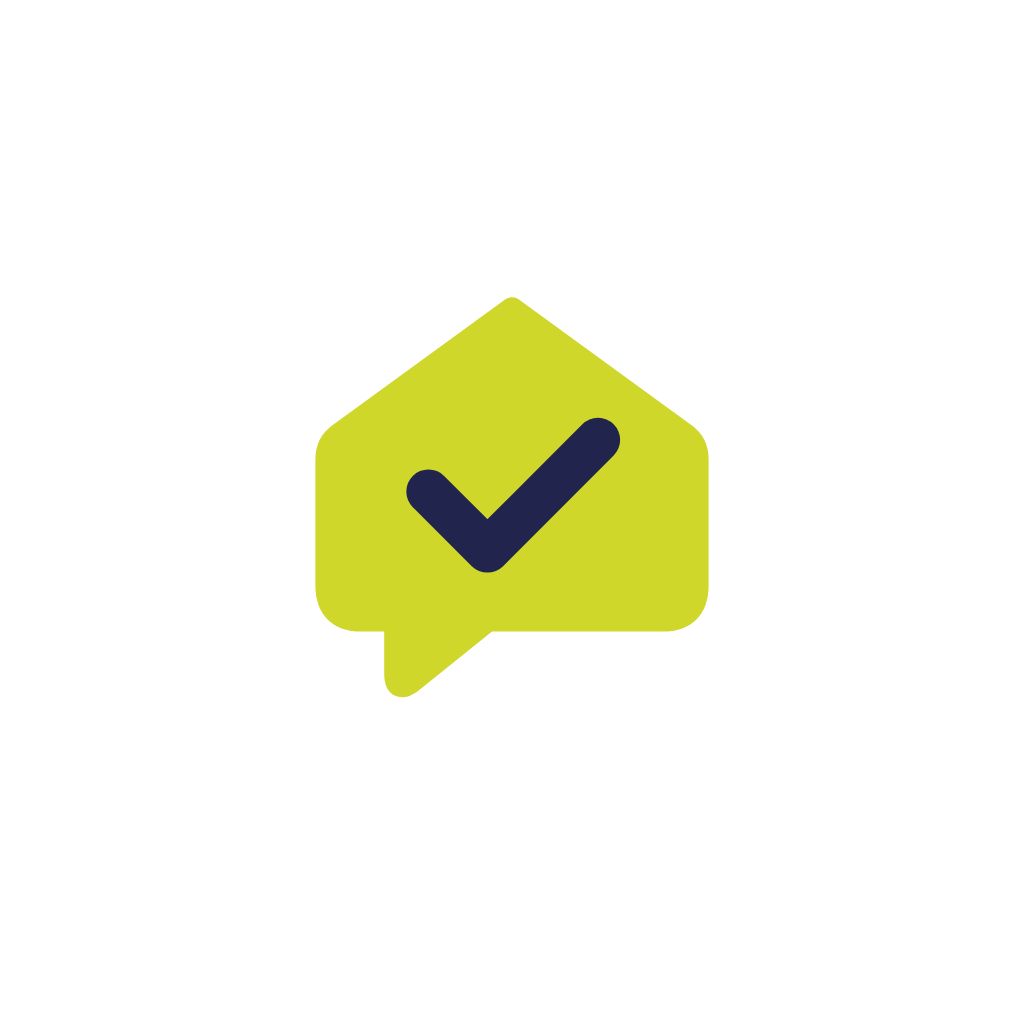
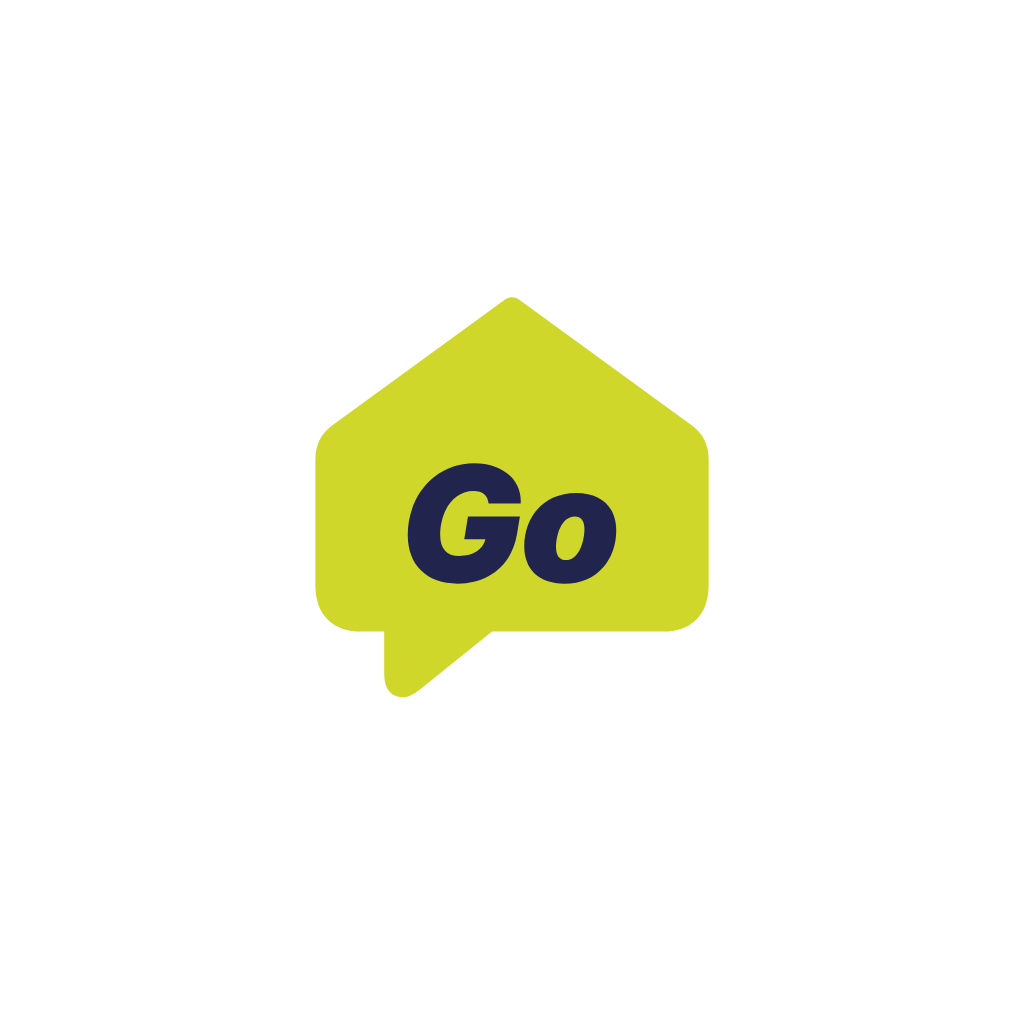
Logotipo con «Go» en cursiva y portada nueva para el cliente
- Logo: la casita verde lima con «Go» en azul marino (Inter Black cursiva convertida a trazo).
- Nuevo ícono de la app, ícono adaptable de Android, pantalla de arranque y favicon.
- Portada: fondo blanco, logotipo y AHA HOME, «Hacemos todo por ti», los 4 pasos del servicio,
  «Crear mi cuenta», «Ya tengo cuenta · Entrar» y el acceso de técnicos abajo.
  La configuración del servidor se abre manteniendo presionado el logotipo.

Claude-Session: https://claude.ai/code/session_014SMz9zz3oS1yaniiLYwkLp

Changed region(s): [[0.375, 0.4062, 0.625, 0.5938]]

diff --git a/mobile/src/screens/Inicio.tsx b/mobile/src/screens/Inicio.tsx
@@ -1,35 +1,58 @@
+import { Ionicons } from "@expo/vector-icons";
 import React from "react";
-import { Pressable, Text, View } from "react-native";
+import { Pressable, ScrollView, Text, View } from "react-native";
 import { useSafeAreaInsets } from "react-native-safe-area-context";
 
-import { getServer } from "../api";
 import { useNav } from "../nav";
 import { Boton, C, Logo } from "../ui";
 
+const PASOS: { icono: React.ComponentProps<typeof Ionicons>["name"]; titulo: string; detalle: string }[] = [
+  { icono: "storefront-outline", titulo: "Retiramos tu compra", detalle: "en Tiendas Damasco" },
+  { icono: "car-outline", titulo: "La llevamos a tu casa", detalle: "con seguimiento en vivo" },
+  { icono: "construct-outline", titulo: "Desembalamos e instalamos", detalle: "técnicos verificados" },
+  { icono: "trash-outline", titulo: "Nos llevamos los desechos", detalle: "cajas, anime y plásticos" },
+];
+
+/** Portada para el cliente: logotipo, qué hacemos en 4 pasos y dos botones para empezar. */
 export default function Inicio() {
   const nav = useNav();
   const insets = useSafeAreaInsets();
   return (
-    <View style={{ flex: 1, backgroundColor: C.marino, paddingTop: insets.top + 60, paddingBottom: insets.bottom + 24, paddingHorizontal: 24 }}>
-      <View style={{ alignItems: "center", gap: 14 }}>
-        <Logo size={96} conFondo={false} />
-        <Text style={{ color: C.blanco, fontSize: 38, fontWeight: "900", letterSpacing: 1 }}>AHA HOME</Text>
-        <Text style={{ color: C.lima, fontSize: 17, fontWeight: "700" }}>Hacemos todo por ti</Text>
-        <Text style={{ color: "#DCDEF0", fontSize: 15, textAlign: "center", lineHeight: 22, marginTop: 6 }}>
-          Retiramos tu compra en Damasco, la llevamos a tu casa, la instalamos y nos llevamos las cajas y el anime.
+    <View style={{ flex: 1, backgroundColor: C.blanco }}>
+      <ScrollView contentContainerStyle={{ flexGrow: 1, paddingTop: insets.top + 40, paddingBottom: insets.bottom + 16, paddingHorizontal: 22, gap: 10 }}>
+        {/* tocar y mantener el logotipo abre la configuración del servidor (solo para pruebas) */}
+        <Pressable accessibilityRole="image" accessibilityLabel="AHA HOME" onLongPress={() => nav.push("servidor")} delayLongPress={1500}
+          style={{ alignItems: "center", gap: 6 }}>
+          <Logo size={96} conFondo={false} />
+          <Text style={{ color: C.marino, fontSize: 36, fontWeight: "900", letterSpacing: 1 }}>AHA HOME</Text>
+        </Pressable>
+        <Text style={{ color: C.marino, fontSize: 24, fontWeight: "900", textAlign: "center", marginTop: 8 }}>Hacemos todo por ti</Text>
+        <Text style={{ color: C.gris, fontSize: 15, textAlign: "center", lineHeight: 21 }}>
+          Desde la caja de Damasco hasta tu casa, con tu compra instalada y sin cajas que botar.
         </Text>
-      </View>
-      <View style={{ flex: 1 }} />
-      <View style={{ gap: 12 }}>
-        <Boton titulo="Entrar" tipo="lima" onPress={() => nav.push("login")} />
-        <Boton titulo="Soy técnico o ayudante" tipo="secundario" icono="finger-print" onPress={() => nav.push("loginTecnico")} />
-        <Pressable accessibilityRole="button" onPress={() => nav.push("registroCliente")} style={{ minHeight: 44, alignItems: "center", justifyContent: "center" }}>
-          <Text style={{ color: C.blanco, fontSize: 15 }}>¿Nuevo en AHA HOME? <Text style={{ fontWeight: "800", color: C.lima }}>Regístrate</Text></Text>
-        </Pressable>
-        <Pressable accessibilityRole="button" onPress={() => nav.push("servidor")} style={{ minHeight: 44, alignItems: "center", justifyContent: "center" }}>
-          <Text style={{ color: "#9EA3CF", fontSize: 12 }}>Servidor: {getServer()}</Text>
-        </Pressable>
-      </View>
+        <View style={{ gap: 8, marginTop: 6 }}>
+          {PASOS.map((p) => (
+            <View key={p.titulo} style={{ flexDirection: "row", alignItems: "center", gap: 12, backgroundColor: C.fondo, borderWidth: 1, borderColor: C.linea,
+              borderRadius: 14, paddingVertical: 9, paddingHorizontal: 12 }}>
+              <View style={{ width: 42, height: 42, borderRadius: 12, backgroundColor: C.lima, alignItems: "center", justifyContent: "center" }}>
+                <Ionicons name={p.icono} size={22} color={C.marino} />
+              </View>
+              <View style={{ flex: 1 }}>
+                <Text style={{ color: C.texto, fontWeight: "800", fontSize: 15 }}>{p.titulo}</Text>
+                <Text style={{ color: C.gris, fontSize: 13 }}>{p.detalle}</Text>
+              </View>
+            </View>
+          ))}
+        </View>
+        <View style={{ flex: 1, minHeight: 16 }} />
+        <View style={{ gap: 10 }}>
+          <Boton titulo="CREAR MI CUENTA" tipo="naranja" onPress={() => nav.push("registroCliente")} />
+          <Boton titulo="YA TENGO CUENTA · ENTRAR" onPress={() => nav.push("login")} />
+          <Pressable accessibilityRole="button" onPress={() => nav.push("loginTecnico")} style={{ minHeight: 44, alignItems: "center", justifyContent: "center" }}>
+            <Text style={{ color: C.gris, fontSize: 14 }}>¿Eres técnico o ayudante? <Text style={{ fontWeight: "800", color: C.marino, textDecorationLine: "underline" }}>Entra aquí</Text></Text>
+          </Pressable>
+        </View>
+      </ScrollView>
     </View>
   );
 }

diff --git a/mobile/src/ui.tsx b/mobile/src/ui.tsx
@@ -20,7 +20,10 @@ export const C = {
 
 export type Icono = React.ComponentProps<typeof Ionicons>["name"];
 
-/** La casita de Anunciate con los colores de AHA VOY. */
+/** «Go» en Inter Black cursiva (sensación de movimiento), convertido a trazo para que se vea igual en iPhone, Android y web. */
+const GO = "M38.95898692810458 68.75C45.02794117647059 68.75 49.95996732026144 65.1470588235294 51.0328431372549 58.613725490196074L51.609313725490196 55.10686274509804H41.0406862745098L40.288071895424835 59.71862745098039H44.595588235294116C44.09918300653595 61.70424836601307 42.24166666666667 63.113398692810456 39.29526143790849 63.113398692810456C36.6531045751634 63.113398692810456 35.38807189542484 61.57614379084967 35.38807189542484 58.8218954248366C35.38807189542484 54.56241830065359 37.66192810457517 49.88660130718954 42.177614379084964 49.88660130718954C44.03513071895425 49.88660130718954 45.10800653594771 50.81535947712418 45.236111111111114 52.448692810457516H51.769444444444446C52.089705882352945 47.372549019607845 47.71813725490196 44.25 42.32173202614379 44.25C34.29918300653595 44.25 28.790686274509806 50.87941176470588 28.790686274509806 58.86993464052287C28.790686274509806 65.01895424836601 32.69787581699347 68.75 38.95898692810458 68.75ZM60.67271241830065 68.75C67.46225490196078 68.75 71.20931372549019 63.67385620915032 71.20931372549019 57.90915032679739C71.20931372549019 53.32941176470588 68.3109477124183 50.30294117647058 63.05866013071895 50.30294117647058C56.317156862745094 50.30294117647058 52.49003267973856 55.33104575163399 52.49003267973856 61.1437908496732C52.49003267973856 65.73954248366013 55.388398692810455 68.75 60.67271241830065 68.75ZM60.928921568627445 63.94607843137255C59.72794117647058 63.94607843137255 58.95931372549019 63.03333333333333 58.95931372549019 61.36797385620915C58.95931372549019 59.2062091503268 59.88807189542483 55.10686274509804 62.80245098039215 55.10686274509804C63.98741830065359 55.10686274509804 64.74003267973856 55.955555555555556 64.74003267973856 57.60490196078431C64.74003267973856 59.75065359477124 63.79526143790849 63.94607843137255 60.928921568627445 63.94607843137255Z";
+
+/** La casita de Anunciate con los colores de AHA VOY y «Go» en azul marino. */
 export function Logo({ size = 48, conFondo = true }: { size?: number; conFondo?: boolean }) {
   return (
     <Svg width={size} height={size} viewBox="0 0 100 100">
@@ -28,7 +31,7 @@ export function Logo({ size = 48, conFondo = true }: { size?: number; conFondo?:
       <G transform={conFondo ? "translate(12 10) scale(0.76)" : undefined}>
         <Path d="M50 13 L85 38.5 Q87.5 40.3 87.5 43.4 L87.5 69 Q87.5 76 80.5 76 L45 76 L29.5 88.5 Q26.5 90.8 26.5 87 L26.5 76 L19.5 76 Q12.5 76 12.5 69 L12.5 43.4 Q12.5 40.3 15 38.5 Z"
           fill={C.lima} stroke={C.lima} strokeWidth={5} strokeLinejoin="round" />
-        <Path d="M33 50 L45 62 L67.5 39.5" fill="none" stroke={C.marino} strokeWidth={9} strokeLinecap="round" strokeLinejoin="round" />
+        <Path d={GO} fill={C.marino} />
       </G>
     </Svg>
   );
